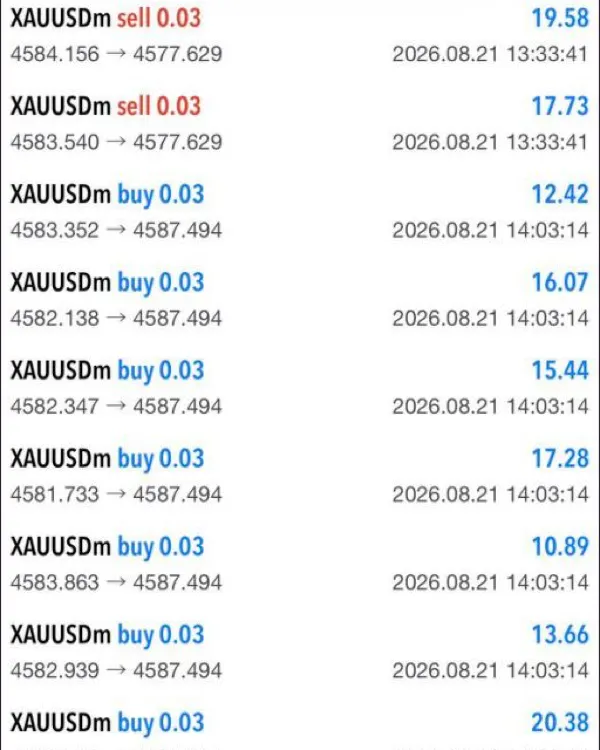
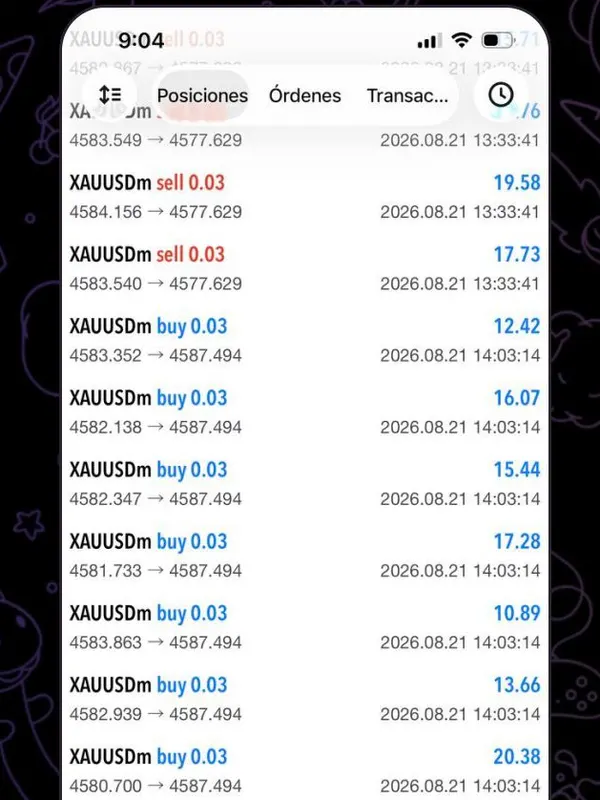
Las capturas vuelven con el marco de la conversación
Recortadas al panel limpio parecían capturas de cualquiera. Al quitar los
nombres y las caras me llevé por delante lo único que decía de dónde salieron, y
sin eso la sección entera se queda sin argumento: una lista de operaciones de
MetaTrader sobre fondo blanco no prueba nada.

Ahora entran con el fondo de Telegram a los lados, las esquinas redondeadas de
la imagen enviada, la hora superpuesta y la barra de estado del móvil. Eso es lo
que se lee como "alguien mandó esto al canal". Lo que se recorta son los
nombres, las caras y los saldos, no el contexto.

Dos que cambian de encuadre por lo mismo: la del gráfico con las seis entradas
en rojo corta antes del mensaje que la acompaña, porque acaba en "el precio se
fue a la luna" y esa frase junto a un gráfico es el registro que Meta penaliza
en categoría financiera; y la de las ocho ventas deja fuera el trozo de la
segunda pantalla que asomaba por la derecha.

La proporción vuelve a 3:4, que es la forma de una captura de móvil en un chat,
y las cartas se ensanchan a 18,5rem en móvil y 21rem en escritorio: con el marco
dentro, el contenido útil ocupa menos.

Aparece herramientas/testimonios.mjs con la tabla de recortes, uno por captura,
medidos sobre una vista previa de 500 px. Usa sharp, no sips: sips recorta
centrado y su --cropOffset se mide desde el centro, no desde la esquina, y
calcularlo a mano dio encuadres torcidos tres veces seguidas. sharp usa esquina
[…]

diff --git a/web/index.html b/web/index.html
@@ -29,7 +29,7 @@
 <link rel="preconnect" href="https://fonts.gstatic.com" crossorigin>
 <link rel="preload" as="style" href="https://fonts.googleapis.com/css2?family=Manrope:wght@300;400;500;600;700&family=IBM+Plex+Mono:wght@400;500&display=swap">
 <link rel="stylesheet" href="https://fonts.googleapis.com/css2?family=Manrope:wght@300;400;500;600;700&family=IBM+Plex+Mono:wght@400;500&display=swap">
-<link rel="stylesheet" href="/assets/css/estilos.css?v=9">
+<link rel="stylesheet" href="/assets/css/estilos.css?v=11">
 
 <script type="application/ld+json">
 {
@@ -1009,7 +1009,7 @@
            role="group" aria-label="Capturas que comparten los miembros del canal. Deslízalas de lado.">
         <figure class="carta carta--captura">
           <img src="/assets/img/testimonios/lotaje.webp" alt="Mensaje de una miembro del canal reconociendo que entró con un lotaje mayor al que debía"
-               loading="lazy" decoding="async" width="600" height="750">
+               loading="lazy" decoding="async" width="600" height="800">
           <figcaption class="carta__cuerpo">
             <blockquote>Entré con un <strong>lotaje mayor al que debía</strong>. Gracias a Dios el mercado estuvo a favor, pero entendí que la disciplina y una buena gestión del riesgo son tan importantes como una buena entrada.</blockquote>
             <cite>Miembro del canal</cite>
@@ -1017,7 +1017,7 @@
         </figure>
         <figure class="carta carta--captura">
           <img src="/assets/img/testimonios/flotante.webp" alt="Gráfico de un miembro con seis compras abiertas, cinco de ellas en pérdida"
-               loading="lazy" decoding="async" width="600" height="750">
+               loading="lazy" decoding="async" width="600" height="800">
           <figcaption class="carta__cuerpo">
             <p class="carta__nota">Seis compras abiertas y cinco en rojo. Así se ve una posición mientras el precio va en contra.</p>
             <cite>Miembro del canal</cite>
@@ -1025,7 +1025,7 @@
         </figure>
         <figure class="carta carta--captura">
           <img src="/assets/img/testimonios/perdedora.webp" alt="Historial de operaciones de un miembro con una operación cerrada en negativo"
-               loading="lazy" decoding="async" width="600" height="750">
+               loading="lazy" decoding="async" width="600" height="800">
           <figcaption class="carta__cuerpo">
             <p class="carta__nota">Una de estas cerró en <strong>-0.04</strong>. Salen así también.</p>
             <cite>Miembro del canal</cite>
@@ -1033,7 +1033,7 @@
         </figure>
         <figure class="carta carta--captura">
           <img src="/assets/img/testimonios/zonas.webp" alt="Gráfico de un miembro con ocho ventas marcadas sobre los mismos niveles"
-               loading="lazy" decoding="async" width="600" height="750">
+               loading="lazy" decoding="async" width="600" height="800">
           <figcaption class="carta__cuerpo">
             <p class="carta__nota">Ocho ventas escalonadas sobre los niveles marcados en el gráfico.</p>
             <cite>Miembro del canal</cite>
@@ -1041,7 +1041,7 @@
         </figure>
         <figure class="carta carta--captura">
           <img src="/assets/img/testimonios/historial-01.webp" alt="Historial de operaciones de compra de un miembro del canal"
-               loading="lazy" decoding="async" width="600" height="750">
+               loading="lazy" decoding="async" width="600" height="800">
           <figcaption class="carta__cuerpo">
             <p class="carta__nota">Ocho entradas de compra en la misma zona, cerradas todas al mismo precio.</p>
             <cite>Miembro del canal</cite>
@@ -1049,7 +1049,7 @@
         </figure>
         <figure class="carta carta--captura">
           <img src="/assets/img/testimonios/historial-02.webp" alt="Historial con ventas y compras de un miembro del canal"
-               loading="lazy" decoding="async" width="600" height="750">
+               loading="lazy" decoding="async" width="600" height="800">
           <figcaption class="carta__cuerpo">
             <p class="carta__nota">Ventas y compras el mismo día. Cada bloque con su propio cierre.</p>
             <cite>Miembro del canal</cite>
@@ -1057,7 +1057,7 @@
         </figure>
         <figure class="carta carta--captura">
           <img src="/assets/img/testimonios/ventas.webp" alt="Historial de ventas de un miembro del canal"
-               loading="lazy" decoding="async" width="600" height="750">
+               loading="lazy" decoding="async" width="600" height="800">
           <figcaption class="carta__cuerpo">
             <p class="carta__nota">Ventas de 0,01 lotes cerradas en el mismo segundo, sobre dos niveles.</p>
             <cite>Miembro del canal</cite>
@@ -1065,7 +1065,7 @@
         </figure>
         <figure class="carta carta--captura">
           <img src="/assets/img/testimonios/salidas.webp" alt="Registro de cierres parciales de una posición de un miembro del canal"
-               loading="lazy" decoding="async" width="600" height="750">
+               loading="lazy" decoding="async" width="600" height="800">
           <figcaption class="carta__cuerpo">
             <p class="carta__nota">Una misma posición cerrada por partes, en dos precios de salida.</p>
             <cite>Miembro del canal</cite>
@@ -1073,7 +1073,7 @@
         </figure>
         <figure class="carta carta--captura">
           <img src="/assets/img/testimonios/posiciones.webp" alt="Historial de compras de un miembro del canal"
-               loading="lazy" decoding="async" width="600" height="750">
+               loading="lazy" decoding="async" width="600" height="800">
           <figcaption class="carta__cuerpo">
             <p class="carta__nota">Nueve compras de 0,03, todas cerradas en el mismo punto.</p>
             <cite>Miembro del canal</cite>
@@ -1330,8 +1330,8 @@
   </div>
 </footer>
 
-<script src="/assets/js/config.js?v=9"></script>
-<script src="/assets/js/movimiento.js?v=9" defer></script>
-<script src="/assets/js/main.js?v=9" defer></script>
+<script src="/assets/js/config.js?v=11"></script>
+<script src="/assets/js/movimiento.js?v=11" defer></script>
+<script src="/assets/js/main.js?v=11" defer></script>
 </body>
 </html>

diff --git a/web/assets/css/estilos.css b/web/assets/css/estilos.css
@@ -1378,7 +1378,7 @@ p { margin: 0 0 1.15rem; max-width: 40rem; }
 .carta {
   --d: 0;
   --e: 0;
-  flex: 0 0 min(78vw, 17rem);
+  flex: 0 0 min(84vw, 18.5rem);
   scroll-snap-align: center;
   display: flex;
   flex-direction: column;
@@ -1391,7 +1391,7 @@ p { margin: 0 0 1.15rem; max-width: 40rem; }
   opacity: calc(1 - var(--e) * 0.55);
 }
 
-@media (min-width: 46rem) { .carta { flex-basis: 19rem; } }
+@media (min-width: 46rem) { .carta { flex-basis: 21rem; } }
 
 /* Al frente: el borde se enciende. Es la única señal de "esta es la que estás
    leyendo" que no depende de que se perciba la inclinación. */
@@ -1641,9 +1641,10 @@ p { margin: 0 0 1.15rem; max-width: 40rem; }
   display: block;
   width: 100%;
   height: auto;
-  /* 4:5, no 3:4: los paneles de historial son más anchos que altos y en 3:4
-     había que sacrificar la columna de valores o la mitad de las filas. */
-  aspect-ratio: 4 / 5;
+  /* 3:4: es la forma de una captura de móvil compartida en un chat, y las
+     capturas se recortan con su marco —fondo de Telegram, esquinas, hora— para
+     que se vea de dónde salieron. */
+  aspect-ratio: 3 / 4;
   object-fit: cover;
   object-position: top;
   background: var(--negro);

diff --git a/web/gracias.html b/web/gracias.html
@@ -10,7 +10,7 @@
 <link rel="preconnect" href="https://fonts.googleapis.com">
 <link rel="preconnect" href="https://fonts.gstatic.com" crossorigin>
 <link rel="stylesheet" href="https://fonts.googleapis.com/css2?family=Archivo:wght@300;400;500&family=Bodoni+Moda:opsz,wght@6..96,600;6..96,700&family=IBM+Plex+Mono:wght@400;500&display=swap">
-<link rel="stylesheet" href="/assets/css/estilos.css?v=9">
+<link rel="stylesheet" href="/assets/css/estilos.css?v=11">
 </head>
 <body>
 
@@ -45,7 +45,7 @@
   </p>
 </main>
 
-<script src="/assets/js/config.js?v=9"></script>
-<script src="/assets/js/gracias.js?v=9" defer></script>
+<script src="/assets/js/config.js?v=11"></script>
+<script src="/assets/js/gracias.js?v=11" defer></script>
 </body>
 </html>

diff --git a/web/privacidad.html b/web/privacidad.html
@@ -10,7 +10,7 @@
 <link rel="preconnect" href="https://fonts.googleapis.com">
 <link rel="preconnect" href="https://fonts.gstatic.com" crossorigin>
 <link rel="stylesheet" href="https://fonts.googleapis.com/css2?family=Archivo:wght@300;400;500&family=Bodoni+Moda:opsz,wght@6..96,600;6..96,700&family=IBM+Plex+Mono:wght@400;500&display=swap">
-<link rel="stylesheet" href="/assets/css/estilos.css?v=9">
+<link rel="stylesheet" href="/assets/css/estilos.css?v=11">
 </head>
 <body>
 <!-- BORRADOR. No es asesoría legal. Antes de publicar, que lo revise un abogado

diff --git a/web/ir.html b/web/ir.html
@@ -6,7 +6,7 @@
 <title>Abriendo Exness…</title>
 <meta name="robots" content="noindex, nofollow">
 <meta name="theme-color" content="#0A0A0B">
-<link rel="stylesheet" href="/assets/css/estilos.css?v=9">
+<link rel="stylesheet" href="/assets/css/estilos.css?v=11">
 </head>
 <body>
 <!--
@@ -29,7 +29,7 @@
   </p>
 </main>
 
-<script src="/assets/js/config.js?v=9"></script>
-<script src="/assets/js/ir.js?v=9" defer></script>
+<script src="/assets/js/config.js?v=11"></script>
+<script src="/assets/js/ir.js?v=11" defer></script>
 </body>
 </html>

diff --git a/web/assets/img/testimonios/LEEME.md b/web/assets/img/testimonios/LEEME.md
@@ -1,7 +1,14 @@
 # Capturas de testimonios
 
-Nueve archivos WebP, **todos a 600x750 (4:5) exactos**. Van en un mazo
+Nueve archivos WebP, **todos a 600x800 (3:4) exactos**. Van en un mazo
 deslizable y una proporción distinta rompe la fila.
+
+**Las capturas van con su marco, no recortadas al panel.** Fondo de Telegram a
+los lados, esquinas redondeadas, la hora superpuesta, la barra de estado del
+móvil. Recortadas al panel limpio parecían capturas de cualquiera —de hecho eso
+fue lo primero que se hizo, y era el problema: sin el marco no hay nada que diga
+que salieron del canal. Lo que se recorta son los nombres, las caras y los
+saldos, no el contexto.
 
 | Archivo | Qué muestra |
 |---|---|
@@ -47,20 +54,22 @@ fila de resumen.
 
 ## Cómo se generan
 
-`sips` recorta **centrado** por defecto: sin `--cropOffset` se lleva justo lo que
-quieres conservar. El orden es `--cropOffset <y> <x>`.
-
-Y no hay que pasar por JPEG: son capturas de texto plano, que comprimen fatal en
-JPEG y muy bien en WebP. Las nueve en JPEG pesaban 744 KB; en WebP, 348 KB.
+Con `herramientas/testimonios.mjs`, que lleva dentro la tabla de recortes: por
+cada captura, el rectángulo medido **sobre una vista previa de 500 px de lado
+mayor**. El script escala, cuadra a 3:4, extrae y saca el WebP.
 
 ```bash
-# 1. recortar en 4:5 y bajar a 600x750, sin pérdida
-sips -c 1070 856 --cropOffset 440 95 origen.jpeg --out paso.png -s format png
-sips -z 750 600 paso.png --out lotaje.png
+# 1. vista previa para medir
+sips -Z 500 "origen.jpeg" --out vista.jpg
 
-# 2. a WebP (sharp no está instalado; npx lo trae y no deja nada)
-npx -y sharp-cli@5 -i "lotaje.png" -o . -f webp -q 78
+# 2. anotar [x0, y0, x1, y1] en la tabla del script, y generar
+npx -y -p sharp node web/herramientas/testimonios.mjs
 ```
+
+**No usar `sips -c` para esto.** `sips` recorta centrado y su `--cropOffset` se
+mide desde el centro, no desde la esquina; calcularlo a mano dio encuadres
+torcidos varias veces. `sharp` usa esquina + tamaño y no hay ambigüedad. Además
+va de JPEG a WebP en un paso, sin recompresión intermedia.
 
 ## Si falta alguna
 

diff --git a/web/CLAUDE.md b/web/CLAUDE.md
@@ -148,11 +148,16 @@ navegaran igual, volvería la plantilla.
 `<cite>` al lado queda atribuido a la persona, y son palabras que no dijo. Las
 citas van verbatim o no van.
 
-**Las capturas van todas a 600x750 (4:5) y en WebP.** Son capturas de texto
+**Las capturas van todas a 600x800 (3:4), en WebP y con su marco.** Son capturas de texto
 plano: comprimen fatal en JPEG y muy bien en WebP — las nueve pasan de 744 KB a
-348 KB. La proporción tiene que ser idéntica o la fila se descuadra, y 4:5 en
-lugar de 3:4 porque los paneles de historial son más anchos que altos: en 3:4
-había que sacrificar la columna de valores o la mitad de las filas.
+376 KB. La proporción tiene que ser idéntica o la fila se descuadra.
+
+Y van **con el marco de la conversación**: fondo de Telegram a los lados,
+esquinas redondeadas, la hora superpuesta, la barra de estado del móvil.
+Recortadas al panel limpio parecen capturas de cualquiera, y eso vacía la
+sección entera. Lo que se recorta son nombres, caras y saldos, no el contexto.
+Se generan con \`herramientas/testimonios.mjs\`; **nunca con \`sips -c\`**, que
+recorta centrado y mide el offset desde el centro.
 
 **El orden del mazo de capturas no es el que llegaron.** Las tres primeras son
 las que no salieron bien: el error de gestión, la posición en rojo y el cierre
